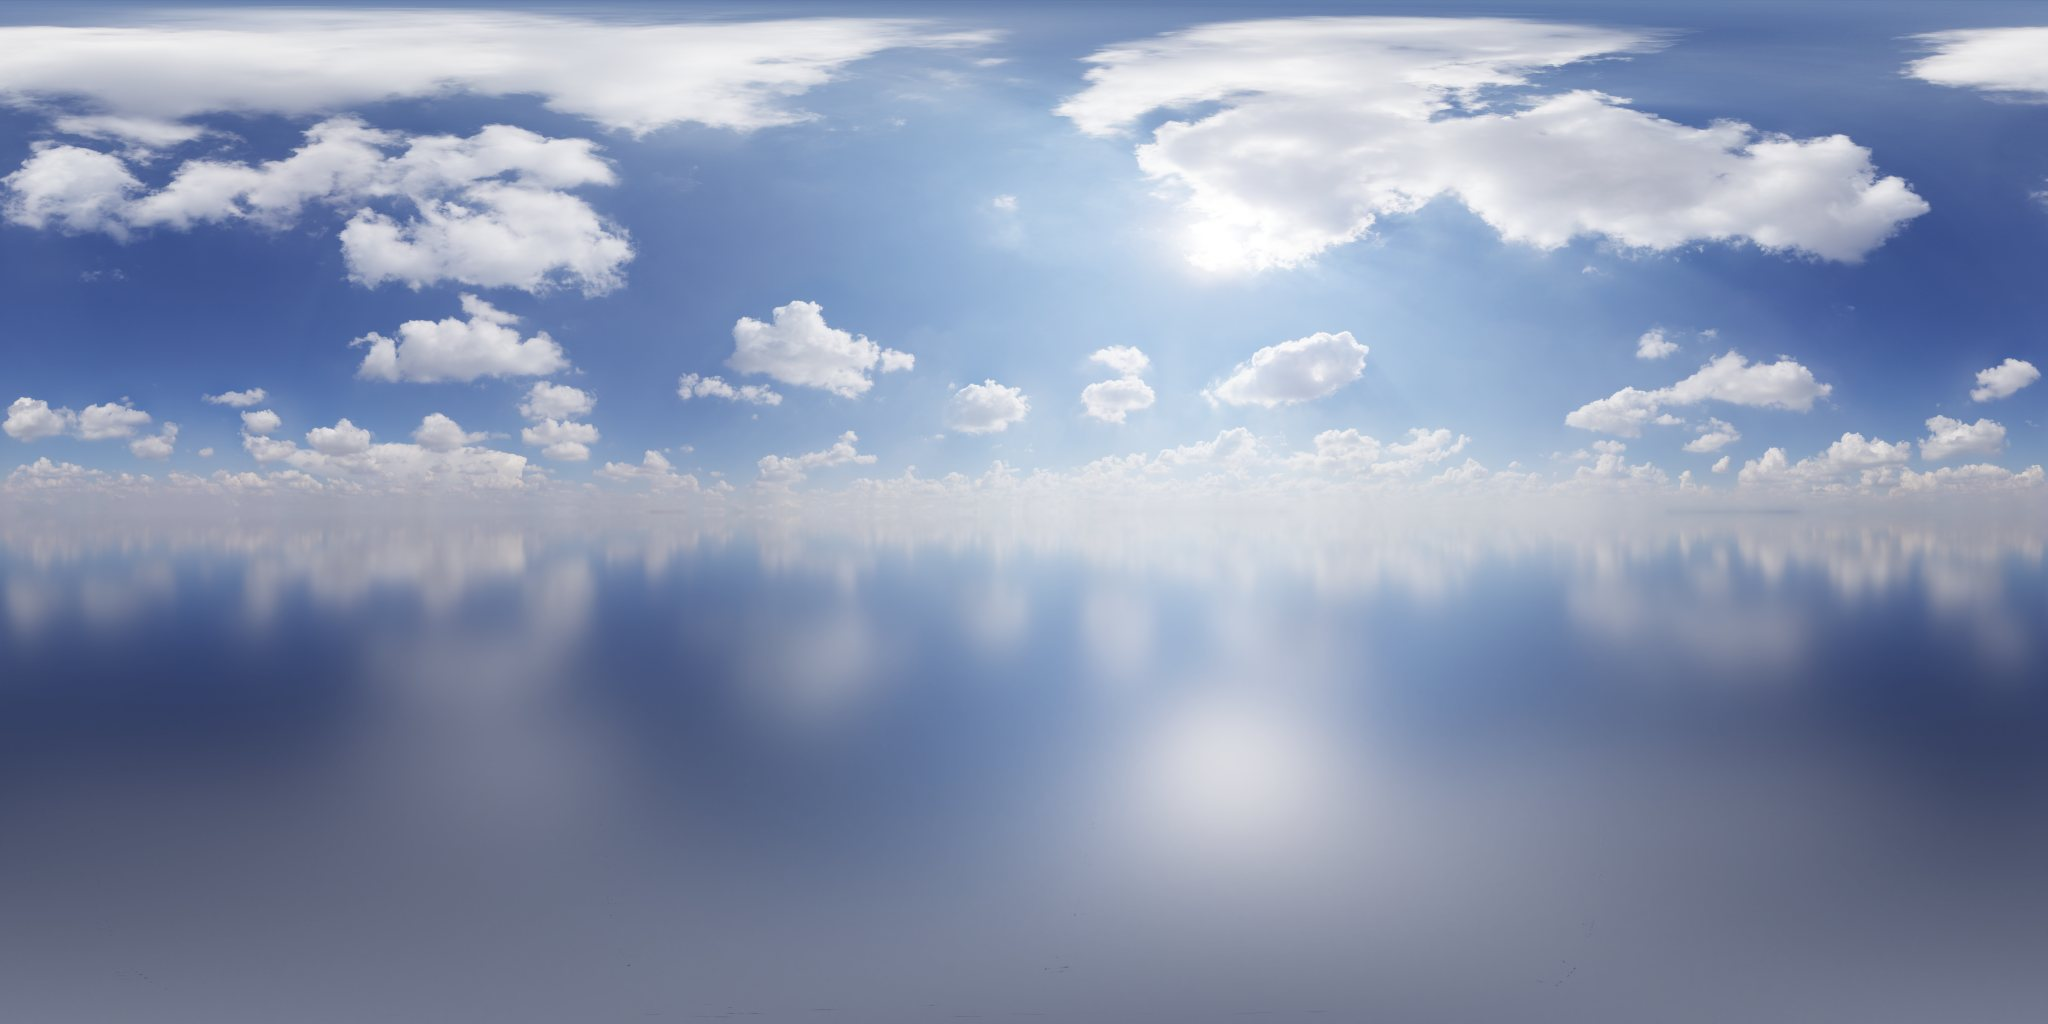
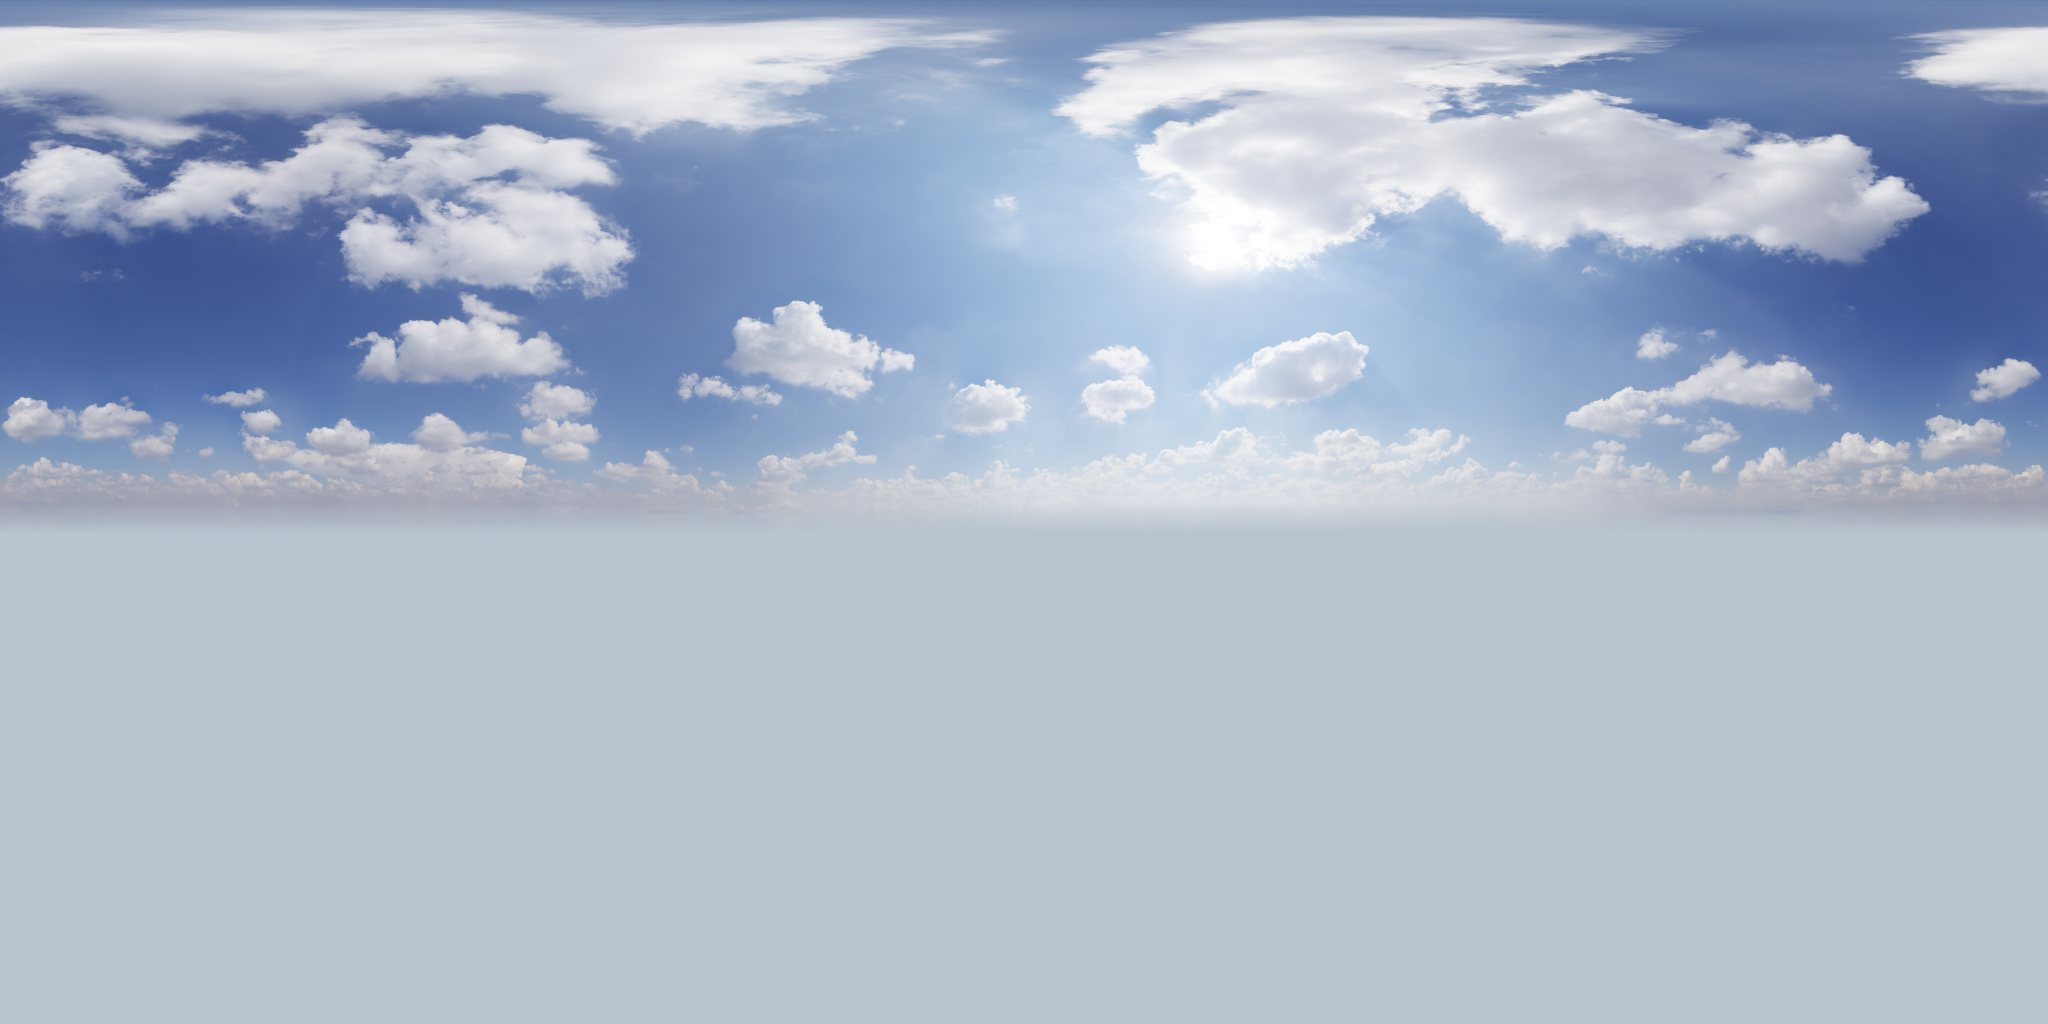
El visor del lote con el terreno real del lugar
"Tu casa aquí" mezcla lo geográfico con lo integrado: la casa sigue
excavada en su plataforma, con cielo, sombras y texturas, pero el suelo
es ahora la foto satelital del lugar (la misma del mapa de lotes) y se
dibujan los linderos de los lotes vecinos.

- La foto (Esri, z18: ~0,6 m por píxel, lo máximo que hay para la zona)
  da el color y la forma del lugar; el césped fotográfico repetido da el
  grano de cerca, para que no se vea borrosa.
- Entorno de 60 m alrededor del lote; la neblina esconde el borde.
- El fondo del cielo lleva el tono de la neblina bajo el horizonte (la
  foto traía ahí un reflejo azul oscuro).

diff --git a/src/components/Casa3D.jsx b/src/components/Casa3D.jsx
@@ -344,8 +344,8 @@ function terrenoLote(rel, lote, phi, dh) {
   for (let i = 0; i < ny; i++) for (let j = 0; j < nx; j++) {
     const k = i * nx + j, x = x0 + j * paso, y = y1 - i * paso;
     pos.set([x, z[k], -y], k * 3);
-    uv.set([x / 7, y / 7], k * 2);
-    const c = dentroDe([x, y], lote.poly) ? 1 : 0.62;
+    uv.set(rel.sat ? [j / (nx - 1), 1 - i / (ny - 1)] : [x / 7, y / 7], k * 2);
+    const c = rel.sat || dentroDe([x, y], lote.poly) ? 1 : 0.62;
     col.set([c, c, c], k * 3);
   }
   const idx = [];
@@ -371,8 +371,8 @@ function terrenoLote(rel, lote, phi, dh) {
 }
 
 /* lindero del lote: una cinta que sigue el terreno */
-function geometriaLindero(poly, alturaEn) {
-  const pos = [], ancho = 0.14;
+function geometriaLindero(poly, alturaEn, ancho = 0.14) {
+  const pos = [];
   for (let i = 0; i < poly.length - 1; i++) {
     const [ax, ay] = poly[i], [bx, by] = poly[i + 1];
     const l = Math.hypot(bx - ax, by - ay), nxv = -(by - ay) / l * ancho, nyv = (bx - ax) / l * ancho;
@@ -771,7 +771,8 @@ export default function Casa3D({ modelo, alto = "clamp(340px, 58vh, 620px)", lot
     sc.near = 0.5; sc.far = radio * 12;
     sc.updateProjectionMatrix();
 
-    escena.fog = new THREE.Fog(0xB9C4CF, radio * 3, radio * 9);
+    /* en un lote el terreno termina a ~60 m: la neblina esconde el borde */
+    escena.fog = lote ? new THREE.Fog(0xB9C4CF, radio * 1.8, radio * 3.4) : new THREE.Fog(0xB9C4CF, radio * 3, radio * 9);
 
     /* cielo real (Poly Haven, CC0): ilumina la escena y hace de fondo */
     let cielo = null, fondo = null;
@@ -903,6 +904,10 @@ export default function Casa3D({ modelo, alto = "clamp(340px, 58vh, 620px)", lot
 
     const matLindero = new THREE.MeshBasicMaterial({ color: 0xE5BC8B, side: THREE.DoubleSide });
     const lindero = new THREE.Mesh(new THREE.BufferGeometry(), matLindero);
+    const matVecinos = new THREE.MeshBasicMaterial({ color: 0xF4EFE6, transparent: true, opacity: 0.75, side: THREE.DoubleSide });
+    const vecinos = new THREE.Mesh(new THREE.BufferGeometry(), matVecinos);
+    if (lote) escena.add(vecinos);
+    let texSat = null;
     const collar = new THREE.Mesh(new THREE.BufferGeometry(), matPiedra);
     collar.receiveShadow = true;
     if (lote) { escena.add(lindero); pivote.add(collar); }
@@ -915,6 +920,38 @@ export default function Casa3D({ modelo, alto = "clamp(340px, 58vh, 620px)", lot
       const t = terrenoLote(rel, lote, phi, dh);
       pasto.geometry.dispose(); pasto.geometry = t.g;
       lindero.geometry.dispose(); lindero.geometry = geometriaLindero(lote.poly, t.alturaEn);
+      /* la foto satelital del lugar como suelo, y los linderos vecinos */
+      if (rel.sat && !texSat) {
+        texSat = new THREE.CanvasTexture(rel.sat);
+        texSat.colorSpace = THREE.SRGBColorSpace;
+        texSat.anisotropy = 8;
+        /* la foto (~0,6 m por píxel, lo máximo que hay para la zona) da el color
+           y la forma del lugar; encima, el césped fotográfico repetido da el
+           grano de cerca: sin él, la foto se ve borrosa al acercarse */
+        const m = new THREE.MeshStandardMaterial({ map: texSat, roughness: 1, metalness: 0,
+          normalMap: pbr.pasto.normalMap, normalScale: new THREE.Vector2(0.6, 0.6) });
+        const detalle = pbr.pasto.map, rep = ((rel.nx - 1) * rel.paso) / 3.5;
+        m.onBeforeCompile = (sh) => {
+          sh.uniforms.detalle = { value: detalle };
+          sh.uniforms.rep = { value: rep };
+          sh.fragmentShader = `uniform sampler2D detalle;
+uniform float rep;
+` + sh.fragmentShader.replace(
+            "#include <map_fragment>",
+            `#include <map_fragment>
+            vec3 d = texture2D(detalle, vMapUv * rep).rgb;
+            float l = dot(d, vec3(0.299, 0.587, 0.114));
+            // la foto solo tiñe (color medio de cada zona); el grano es del césped
+            vec3 foto = diffuseColor.rgb;
+            float lf = dot(foto, vec3(0.299, 0.587, 0.114));
+            vec3 grano = d / max(l, 0.05) * lf;
+            diffuseColor.rgb = mix(foto, grano * mix(vec3(1.0), foto / max(lf, 0.05), 0.55), 0.75);`);
+        };
+        pasto.material = m;
+      }
+      const otros = (rel.vecinos ?? []).map((p) => geometriaLindero(p, t.alturaEn, 0.07));
+      vecinos.geometry.dispose();
+      vecinos.geometry = otros.length ? mergeGeometries(otros) : new THREE.BufferGeometry();
       const c = dh.hueco.length ? geometriaCollar(dh.hueco, dh.nivelExt) : null;
       collar.geometry.dispose(); collar.geometry = c ?? new THREE.BufferGeometry();
       const puntos = [...dh.huellas.flatMap((h) => h.polys), ...dh.exterior].flat();
@@ -933,7 +970,8 @@ export default function Casa3D({ modelo, alto = "clamp(340px, 58vh, 620px)", lot
       render.domElement.removeEventListener("wheel", parar);
       ctrl.dispose();
       compositor.dispose();
-      matLindero.dispose();
+      matLindero.dispose(); matVecinos.dispose();
+      if (texSat) { texSat.dispose(); pasto.material.dispose(); }
       matTronco.dispose(); matCopas.forEach((m) => m.dispose());
       render.dispose();
       cielo?.dispose(); fondo?.dispose();

diff --git a/src/loteTerreno.js b/src/loteTerreno.js
@@ -10,6 +10,10 @@
 import { LOTES_GEO } from "./lotesGeo";
 
 const DEM = "https://s3.amazonaws.com/elevation-tiles-prod/terrarium/{z}/{x}/{y}.png";
+/* la misma foto satelital del mapa de lotes (Esri World Imagery, solo como
+   contexto; ver la nota de licencia en Terrain3D.jsx) */
+const SAT = "https://server.arcgisonline.com/ArcGIS/rest/services/World_Imagery/MapServer/tile/{z}/{y}/{x}";
+const ZOOM_SAT = 18;             // ~0,6 m por píxel, el máximo que usa el mapa
 const ZOOM = 15;                 // ~4,7 m por píxel a esta latitud
 
 const metros = (lat) => ({ kx: 111320 * Math.cos((lat * Math.PI) / 180), ky: 110574 });
@@ -33,6 +37,44 @@ export function dentroDe(p, poly) {
     if ((yi > p[1]) !== (yj > p[1]) && p[0] < ((xj - xi) * (p[1] - yi)) / (yj - yi) + xi) d = !d;
   }
   return d;
+}
+
+/* lotes vecinos en el mismo sistema de metros, para dibujar sus linderos */
+export function lotesCerca(lote, radio = 90) {
+  const { kx, ky } = metros(lote.lat0);
+  return Object.values(LOTES_GEO)
+    .map((g) => g.poly.map(([lng, lat]) => [(lng - lote.lng0) * kx, (lat - lote.lat0) * ky]))
+    .filter((p) => p.some(([x, y]) => Math.hypot(x, y) < radio));
+}
+
+/* foto satelital del recuadro [x0, x1] × [y0, y1] (metros), en un lienzo */
+async function satelite(lote, x0, y0, x1, y1) {
+  const { kx, ky } = metros(lote.lat0);
+  const aGeo = (x, y) => [lote.lng0 + x / kx, lote.lat0 + y / ky];
+  const px = (lng, lat) => {
+    const n = 2 ** ZOOM_SAT, s = Math.sin((lat * Math.PI) / 180);
+    return [((lng + 180) / 360) * n * 256, (0.5 - Math.log((1 + s) / (1 - s)) / (4 * Math.PI)) * n * 256];
+  };
+  const [a, b] = [px(...aGeo(x0, y1)), px(...aGeo(x1, y0))];
+  const lado = Math.min(2048, Math.ceil(Math.max(b[0] - a[0], b[1] - a[1])));
+  const c = document.createElement("canvas");
+  c.width = c.height = lado;
+  const g = c.getContext("2d");
+  const ex = lado / (b[0] - a[0]), ey = lado / (b[1] - a[1]);
+  const tareas = [];
+  for (let tx = Math.floor(a[0] / 256); tx <= Math.floor(b[0] / 256); tx++) {
+    for (let ty = Math.floor(a[1] / 256); ty <= Math.floor(b[1] / 256); ty++) {
+      tareas.push(new Promise((ok) => {
+        const img = new Image();
+        img.crossOrigin = "anonymous";
+        img.onload = () => { g.drawImage(img, (tx * 256 - a[0]) * ex, (ty * 256 - a[1]) * ey, 256 * ex + 1, 256 * ey + 1); ok(true); };
+        img.onerror = () => ok(false);
+        img.src = SAT.replace("{z}", ZOOM_SAT).replace("{x}", tx).replace("{y}", ty);
+      }));
+    }
+  }
+  const res = await Promise.all(tareas);
+  return res.some(Boolean) ? c : null;       // sin foto, el visor usa césped
 }
 
 /* ── tiles de elevación ── */
@@ -63,7 +105,7 @@ const aPixel = (lng, lat) => {
 };
 
 /* Malla de alturas (msnm) alrededor del lote. Fila 0 = norte. */
-export async function relieve(lote, margen = 26, paso = 0.4) {
+export async function relieve(lote, margen = 60, paso = 0.5) {
   const xs = lote.poly.map((p) => p[0]), ys = lote.poly.map((p) => p[1]);
   const x0 = Math.min(...xs) - margen, x1 = Math.max(...xs) + margen;
   const y0 = Math.min(...ys) - margen, y1 = Math.max(...ys) + margen;
@@ -93,11 +135,13 @@ export async function relieve(lote, margen = 26, paso = 0.4) {
       leer(ix, iy + 1) * (1 - u) * v + leer(ix + 1, iy + 1) * u * v;
   };
 
+  const foto = satelite(lote, x0, y0, x1, y1).catch(() => null);
   const nx = Math.round((x1 - x0) / paso) + 1, ny = Math.round((y1 - y0) / paso) + 1;
   const z = new Float32Array(nx * ny);
   for (let i = 0; i < ny; i++) for (let j = 0; j < nx; j++) z[i * nx + j] = altura(x0 + j * paso, y1 - i * paso);
 
   /* la bajada general del lote: diferencia de alturas a ±10 m del centro */
   const gx = (altura(10, 0) - altura(-10, 0)) / 20, gy = (altura(0, 10) - altura(0, -10)) / 20;
-  return { x0, y1, paso, nx, ny, z, cota0: altura(0, 0), bajada: Math.atan2(-gy, -gx), pendiente: Math.hypot(gx, gy) };
+  return { x0, y1, paso, nx, ny, z, cota0: altura(0, 0), bajada: Math.atan2(-gy, -gx), pendiente: Math.hypot(gx, gy),
+    sat: await foto, vecinos: lotesCerca(lote) };
 }
